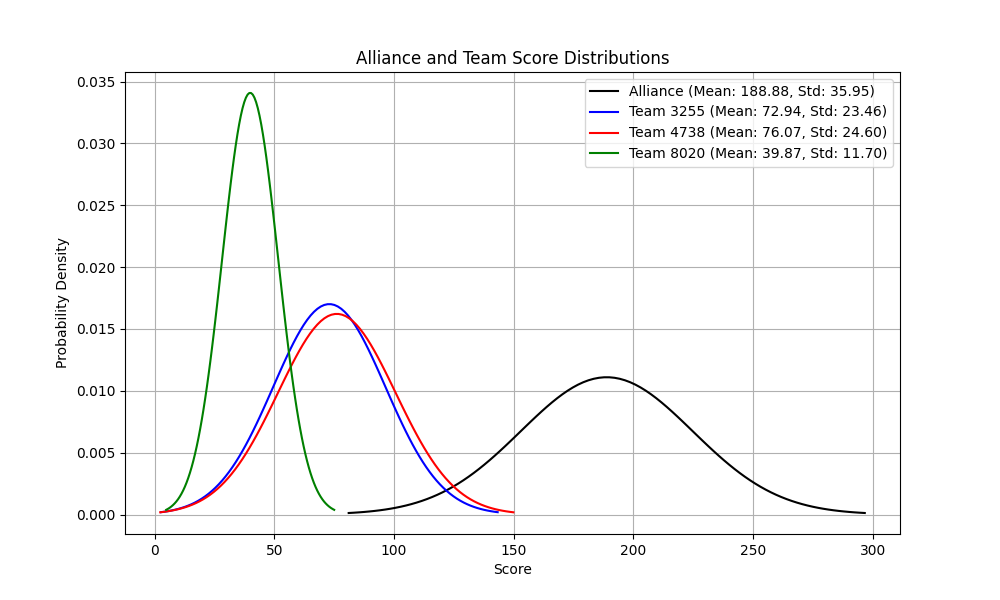
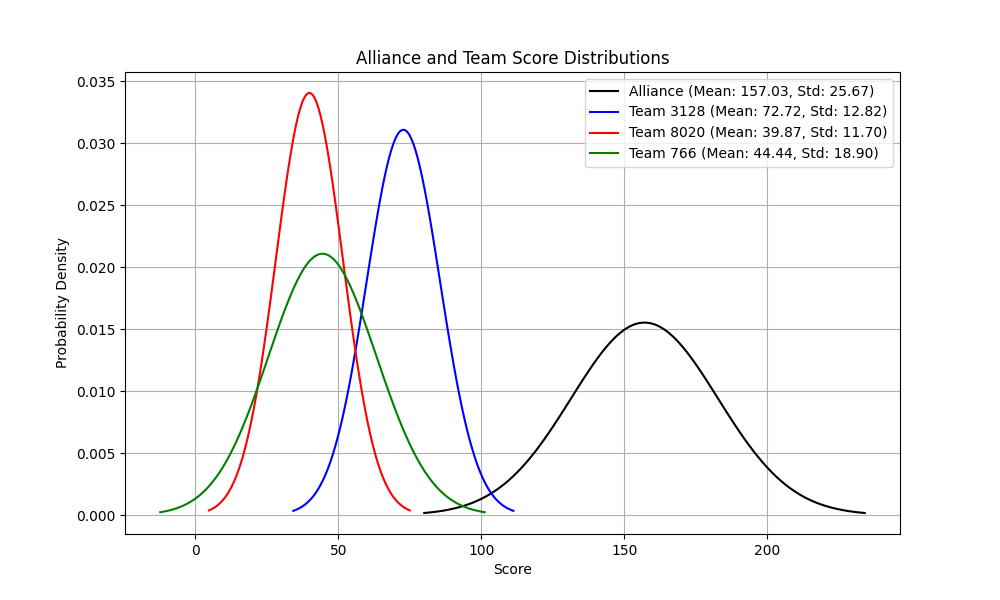
You can choose which teams are in both alliances, and the graph will show the normal distribution of each alliance, telling which alliance is predicted to win and the probability of winning.

diff --git a/alliance_analyzer.py b/alliance_analyzer.py
@@ -1,0 +1,199 @@
+import streamlit as st
+import numpy as np
+import matplotlib.pyplot as plt
+from scipy.stats import norm
+import firebase_admin
+from firebase_admin import credentials
+from firebase_admin import firestore
+import math
+import json
+import os
+
+# Initialize Firebase (if not already initialized)
+@st.cache_resource
+def initialize_firebase():
+    try:
+        app = firebase_admin.get_app()
+    except ValueError:
+        cred = credentials.Certificate('key.json')
+        app = firebase_admin.initialize_app(cred)
+    return firestore.client()
+
+# Score calculation function
+def calculate_team_score(data):
+    score = 0
+
+    # Auto phase
+    if data['auto'].get('leave', False):
+        score += 3
+    coral_auto = data['auto'].get('coral', [0, 0, 0, 0])
+    auto_coral_scores = [3, 4, 6, 7]  # L1, L2, L3, L4
+    for i, count in enumerate(coral_auto):
+        score += count * auto_coral_scores[i]
+    score += data['auto'].get('net', 0) * 4
+    score += data['auto'].get('processor', 0) * 6
+
+    # Teleop phase
+    coral_teleop = data['teleop'].get('coral', [0, 0, 0, 0])
+    teleop_coral_scores = [2, 3, 4, 5]  # L1, L2, L3, L4
+    for i, count in enumerate(coral_teleop):
+        score += count * teleop_coral_scores[i]
+    score += data['teleop'].get('net', 0) * 4
+    score += data['teleop'].get('processor', 0) * 6
+
+    # Endgame phase
+    barge_status = data['endgame'].get('bargeStatus', 'Did Not Attempt')
+    if barge_status == 'Success Deep Cage':
+        score += 12
+    elif barge_status == 'Success Shallow Cage':
+        score += 6
+    elif barge_status == 'Park':
+        score += 2
+
+    return score
+
+# Calculate mean and sample standard deviation
+def calculate_stats(scores):
+    n = len(scores)
+    if n == 0:
+        return 0, 0  # No data
+    mean = sum(scores) / n
+    if n == 1:
+        return mean, 0  # Single match, std undefined
+    variance = sum((x - mean) ** 2 for x in scores) / (n - 1)
+    std_dev = math.sqrt(variance)
+    return mean, std_dev
+
+# Get and process data
+@st.cache_data
+def get_team_stats():
+    db = initialize_firebase()
+    docs = db.collection("matches/8020/2025_San_Diego").stream()
+    
+    # Group by teams
+    team_scores = {}
+    for doc in docs:
+        doc_id = doc.id
+        parts = doc_id.split('_')
+        if len(parts) == 3:
+            match_type, match_number, team_number = parts
+            score = calculate_team_score(doc.to_dict())
+            if team_number not in team_scores:
+                team_scores[team_number] = {'scores': []}
+            team_scores[team_number]['scores'].append(score)
+    
+    # Calculate statistics
+    result = {}
+    for team_number, data in team_scores.items():
+        mean, std_dev = calculate_stats(data['scores'])
+        result[team_number] = {
+            'average': mean,
+            'std_dev': std_dev
+        }
+    
+    return result
+
+# Streamlit interface
+st.title("FRC Alliance Score Distribution Analyzer")
+
+# Get data
+teams_data = get_team_stats()
+
+# Create team list for selection (sort by integer value)
+team_list = sorted([int(team) for team in teams_data.keys()])
+team_list = [str(team) for team in team_list]  # Convert back to string for display
+
+# Split into two alliances
+st.header("Blue Alliance")
+blue1 = st.selectbox("Select Blue Alliance First Team:", team_list, key="blue1")
+blue2 = st.selectbox("Select Blue Alliance Second Team:", team_list, key="blue2")
+blue3 = st.selectbox("Select Blue Alliance Third Team:", team_list, key="blue3")
+
+st.header("Red Alliance")
+red1 = st.selectbox("Select Red Alliance First Team:", team_list, key="red1")
+red2 = st.selectbox("Select Red Alliance Second Team:", team_list, key="red2")
+red3 = st.selectbox("Select Red Alliance Third Team:", team_list, key="red3")
+
+# Calculate and plot
+if all(team in teams_data for team in [blue1, blue2, blue3, red1, red2, red3]):
+    # Calculate alliance statistics
+    blue_avg = sum(teams_data[team]['average'] for team in [blue1, blue2, blue3])
+    blue_std = np.sqrt(sum(teams_data[team]['std_dev']**2 for team in [blue1, blue2, blue3]))
+    
+    red_avg = sum(teams_data[team]['average'] for team in [red1, red2, red3])
+    red_std = np.sqrt(sum(teams_data[team]['std_dev']**2 for team in [red1, red2, red3]))
+
+    # Create plot
+    plt.figure(figsize=(12, 8))
+    
+    # Plot alliance distributions
+    x_range = np.linspace(
+        min(blue_avg - 3*blue_std, red_avg - 3*red_std),
+        max(blue_avg + 3*blue_std, red_avg + 3*red_std),
+        100
+    )
+    
+    plt.plot(x_range, norm.pdf(x_range, blue_avg, blue_std), 
+             label=f"Blue Alliance (Mean: {blue_avg:.2f}, Std: {blue_std:.2f})", 
+             color='blue', linewidth=2)
+    plt.plot(x_range, norm.pdf(x_range, red_avg, red_std), 
+             label=f"Red Alliance (Mean: {red_avg:.2f}, Std: {red_std:.2f})", 
+             color='red', linewidth=2)
+
+    # Plot individual team distributions
+    colors = ['lightblue', 'skyblue', 'dodgerblue', 'lightcoral', 'indianred', 'darkred']
+    teams = [blue1, blue2, blue3, red1, red2, red3]
+    
+    for team, color in zip(teams, colors):
+        avg = teams_data[team]['average']
+        std = teams_data[team]['std_dev']
+        if std > 0:
+            x = np.linspace(avg - 3*std, avg + 3*std, 100)
+            y = norm.pdf(x, avg, std)
+            plt.plot(x, y, '--', label=f"Team {team} (Mean: {avg:.2f}, Std: {std:.2f})", 
+                     color=color, alpha=0.6)
+
+    plt.title("Alliance and Team Score Distributions")
+    plt.xlabel("Score")
+    plt.ylabel("Probability Density")
+    plt.legend(bbox_to_anchor=(1.05, 1), loc='upper left')
+    plt.grid(True)
+    
+    # Adjust figure size to accommodate legend
+    plt.tight_layout()
+
+    # Save and display plot
+    plt.savefig("alliance_distribution.png", bbox_inches='tight')
+    st.image("alliance_distribution.png")
+
+    # Win probability analysis
+    st.header("Alliance Comparison")
+    
+    # Calculate blue alliance win probability
+    z_score = (blue_avg - red_avg) / np.sqrt(blue_std**2 + red_std**2)
+    win_prob = 1 - norm.cdf(0, z_score, 1)
+    
+    st.write(f"""
+    **Alliance Total Score Comparison:**
+    - Blue Alliance: {blue_avg:.2f} ± {blue_std:.2f}
+    - Red Alliance: {red_avg:.2f} ± {red_std:.2f}
+    
+    **Win Probability Prediction:**
+    - Blue Alliance Win Probability: {win_prob*100:.1f}%
+    - Red Alliance Win Probability: {(1-win_prob)*100:.1f}%
+    """)
+
+    # Explanation
+    st.write("""
+    **Why Normal Distribution?**
+    Team scores typically follow a normal distribution due to the Central Limit Theorem, as scores result from many small, independent contributions (e.g., various scoring elements).
+
+    **Alliance Score Calculation:**
+    - Alliance mean score is the sum of the three teams' mean scores
+    - Alliance standard deviation is the square root of the sum of squared individual standard deviations (assuming team performances are independent)
+    
+    **Win Probability Calculation:**
+    Uses the difference between two normal distributions to calculate the probability of one alliance scoring higher than the other.
+    """)
+else:
+    st.error("Please ensure valid team numbers are selected.") 

diff --git a/graph.py b/graph.py
@@ -2,44 +2,43 @@ import streamlit as st
 import numpy as np
 import matplotlib.pyplot as plt
 from scipy.stats import norm
-
-# Data
-teams_data = {
-    '4327': {'average': 44.0, 'std_dev': 0}, '6995': {'average': 61.0, 'std_dev': 20.77257807784099},
-    '7419': {'average': 33.1764705882353, 'std_dev': 9.709758584264899}, '9084': {'average': 60.94117647058823, 'std_dev': 22.01837467955825},
-    '2485': {'average': 48.785714285714285, 'std_dev': 18.64312028781486}, '2543': {'average': 52.0, 'std_dev': 9.837135292819285},
-    '2984': {'average': 13.166666666666666, 'std_dev': 10.25877303786492}, '8119': {'average': 24.214285714285715, 'std_dev': 15.986429684764952},
-    '2102': {'average': 50.8, 'std_dev': 12.946041866145807}, '2839': {'average': 28.25, 'std_dev': 14.353491814632678},
-    '3255': {'average': 72.94444444444444, 'std_dev': 23.455771200588977}, '3647': {'average': 10.23076923076923, 'std_dev': 7.81189100190479},
-    '4276': {'average': 40.61538461538461, 'std_dev': 10.743513248610853}, '4738': {'average': 76.07142857142857, 'std_dev': 24.599763243745898},
-    '4919': {'average': 5.636363636363637, 'std_dev': 7.91546242834526}, '4984': {'average': 14.272727272727273, 'std_dev': 8.45092786729255},
-    '5514': {'average': 32.11764705882353, 'std_dev': 8.80257315321191}, '6515': {'average': 8.083333333333334, 'std_dev': 7.798115545476745},
-    '766': {'average': 44.4375, 'std_dev': 18.90315229443668}, '1622': {'average': 17.846153846153847, 'std_dev': 8.029592702893401},
-    '3128': {'average': 72.72222222222223, 'std_dev': 12.823716794217683}, '4160': {'average': 26.0, 'std_dev': 8.246211251235321},
-    '812': {'average': 27.46153846153846, 'std_dev': 9.553493118709552}, '2658': {'average': 15.0, 'std_dev': 9.067647005823629},
-    '3749': {'average': 13.866666666666667, 'std_dev': 8.245056238798641}, '3965': {'average': 3.0, 'std_dev': 0.0},
-    '8888': {'average': 9.583333333333334, 'std_dev': 6.374071530724131}, '9452': {'average': 44.642857142857146, 'std_dev': 12.5796364314416},
-    '10392': {'average': 12.0, 'std_dev': 3.4351128074635335}, '1538': {'average': 67.625, 'std_dev': 10.929318368498558},
-    '4419': {'average': 29.357142857142858, 'std_dev': 13.477086782085665}, '5474': {'average': 22.071428571428573, 'std_dev': 9.118571798716708},
-    '10586': {'average': 9.692307692307692, 'std_dev': 3.816294349772114}, '2710': {'average': 33.642857142857146, 'std_dev': 15.95477812615848},
-    '5137': {'average': 29.733333333333334, 'std_dev': 15.88110587489183}, '6072': {'average': 20.916666666666668, 'std_dev': 7.879297769048543},
-    '8891': {'average': 37.0, 'std_dev': 13.704677370087259}, '3341': {'average': 14.0, 'std_dev': 9.812528434899656},
-    '5025': {'average': 19.75, 'std_dev': 7.593358341938757}, '8870': {'average': 7.916666666666667, 'std_dev': 5.142661732699294},
-    '10625': {'average': 3.5, 'std_dev': 0.8498365855987975}, '8020': {'average': 39.86666666666667, 'std_dev': 11.7038862084759},
-    '6885': {'average': 11.857142857142858, 'std_dev': 3.4161864220691576}, '7441': {'average': 15.272727272727273, 'std_dev': 9.839623052646978},
-    '9730': {'average': 2.0, 'std_dev': 1.5811388300841898}, '6695': {'average': 3.4, 'std_dev': 1.8973665961010275},
-    '1572': {'average': 16.9, 'std_dev': 13.714955340794953}, '4283': {'average': 105.0, 'std_dev': 0},
-    '9573': {'average': 3.0, 'std_dev': 2.309401076758503}, '2827': {'average': 4.333333333333333, 'std_dev': 4.0},
-    '3704': {'average': 2.6666666666666665, 'std_dev': 3.8078865529319548}, '1972': {'average': 1.6666666666666667, 'std_dev': 1.5811388300841898},
-    '10336': {'average': 2.0, 'std_dev': 1.5491933384829668}
-}
+import json
+import os
 
 st.title("FRC Alliance and Team Score Distributions")
 
-# Input for three team numbers
-team1 = st.text_input("Enter first team number:", "3255")
-team2 = st.text_input("Enter second team number:", "4738")
-team3 = st.text_input("Enter third team number:", "3128")
+# 檢查資料檔案是否存在
+if not os.path.exists('team_stats.json'):
+    st.error("""
+    找不到資料檔案 'team_stats.json'！
+    
+    請先執行以下指令來生成資料檔案：
+    ```
+    python main.py
+    ```
+    """)
+    st.stop()
+
+# 從 JSON 檔案讀取資料
+try:
+    with open('team_stats.json', 'r') as f:
+        teams_data = json.load(f)
+except Exception as e:
+    st.error(f"""
+    讀取資料檔案時發生錯誤：
+    {str(e)}
+    
+    請確認 'team_stats.json' 檔案格式正確。
+    """)
+    st.stop()
+
+# 建立隊伍列表供選擇
+team_list = sorted(list(teams_data.keys()))
+
+# 使用下拉選單選擇隊伍
+team1 = st.selectbox("選擇第一個隊伍:", team_list)
+team2 = st.selectbox("選擇第二個隊伍:", team_list)
+team3 = st.selectbox("選擇第三個隊伍:", team_list)
 
 # Validate inputs
 if team1 in teams_data and team2 in teams_data and team3 in teams_data:

diff --git a/main.py b/main.py
@@ -2,6 +2,7 @@ import firebase_admin
 from firebase_admin import credentials
 from firebase_admin import firestore
 import math
+import json
 
 # 初始化 Firestore
 cred = credentials.Certificate('key.json')
@@ -85,3 +86,7 @@ for team_number, data in team_scores.items():
 # 輸出結果
 print("隊伍統計字典：")
 print(result)
+
+# 將結果寫入 JSON 檔案
+with open('team_stats.json', 'w') as f:
+    json.dump(result, f)
